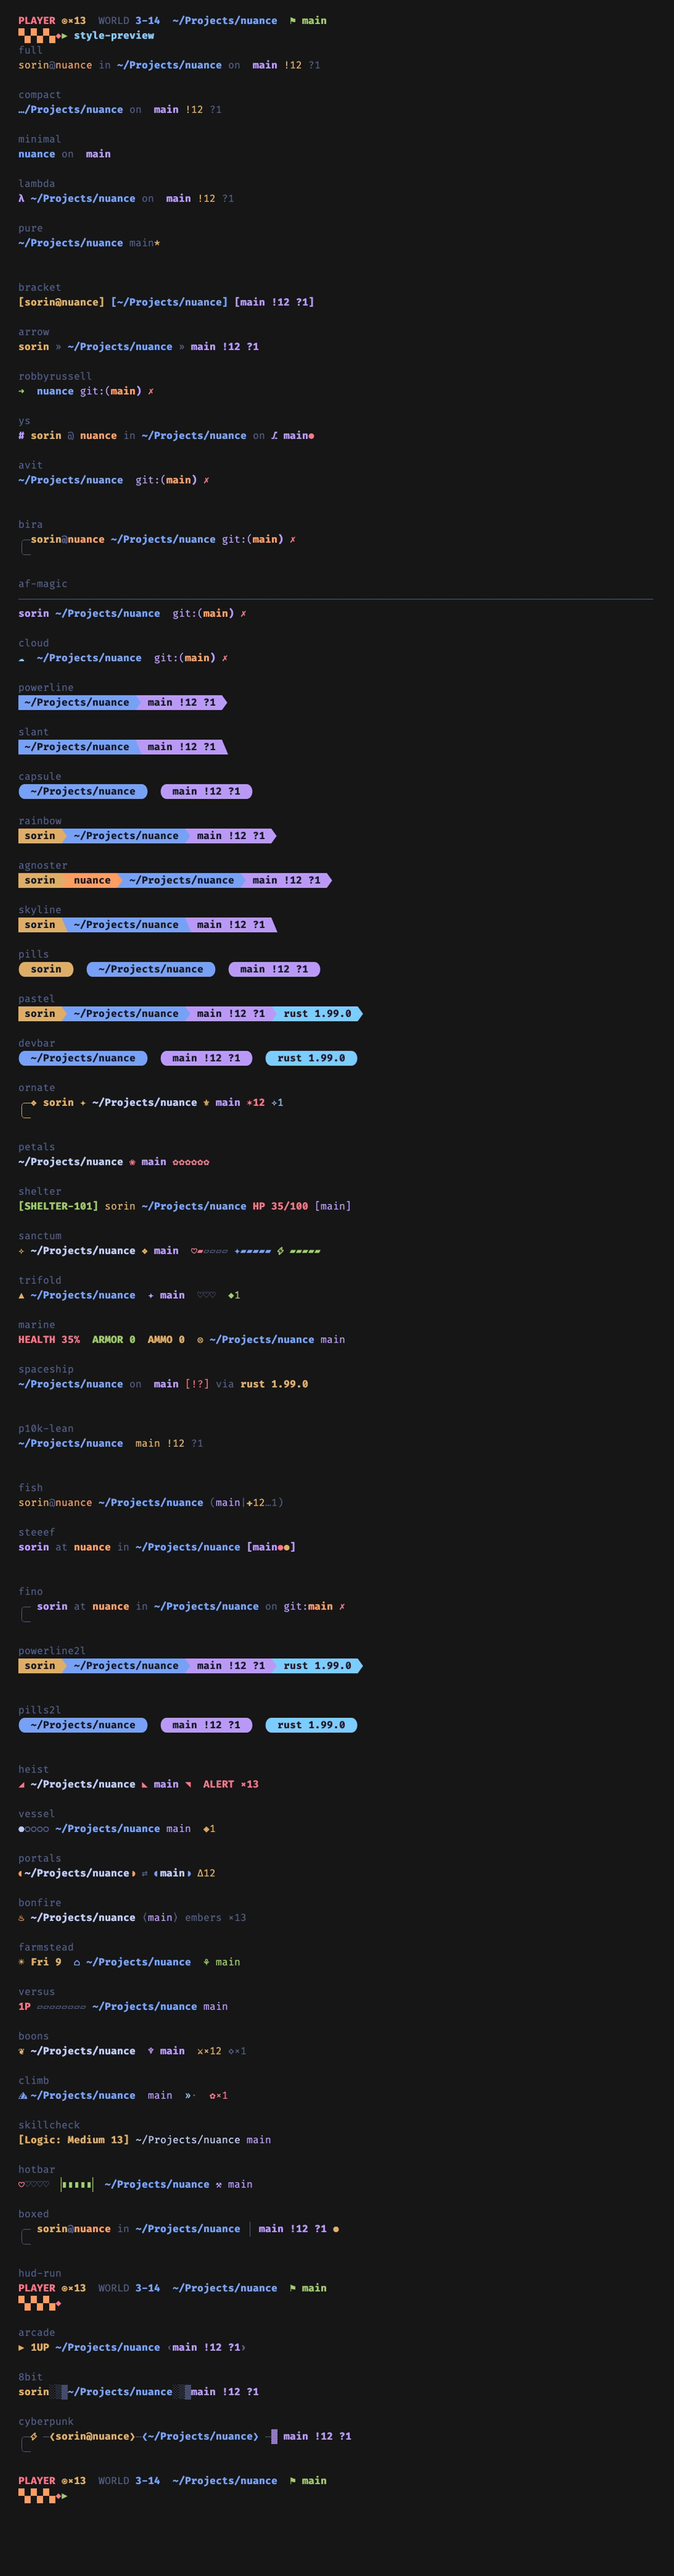
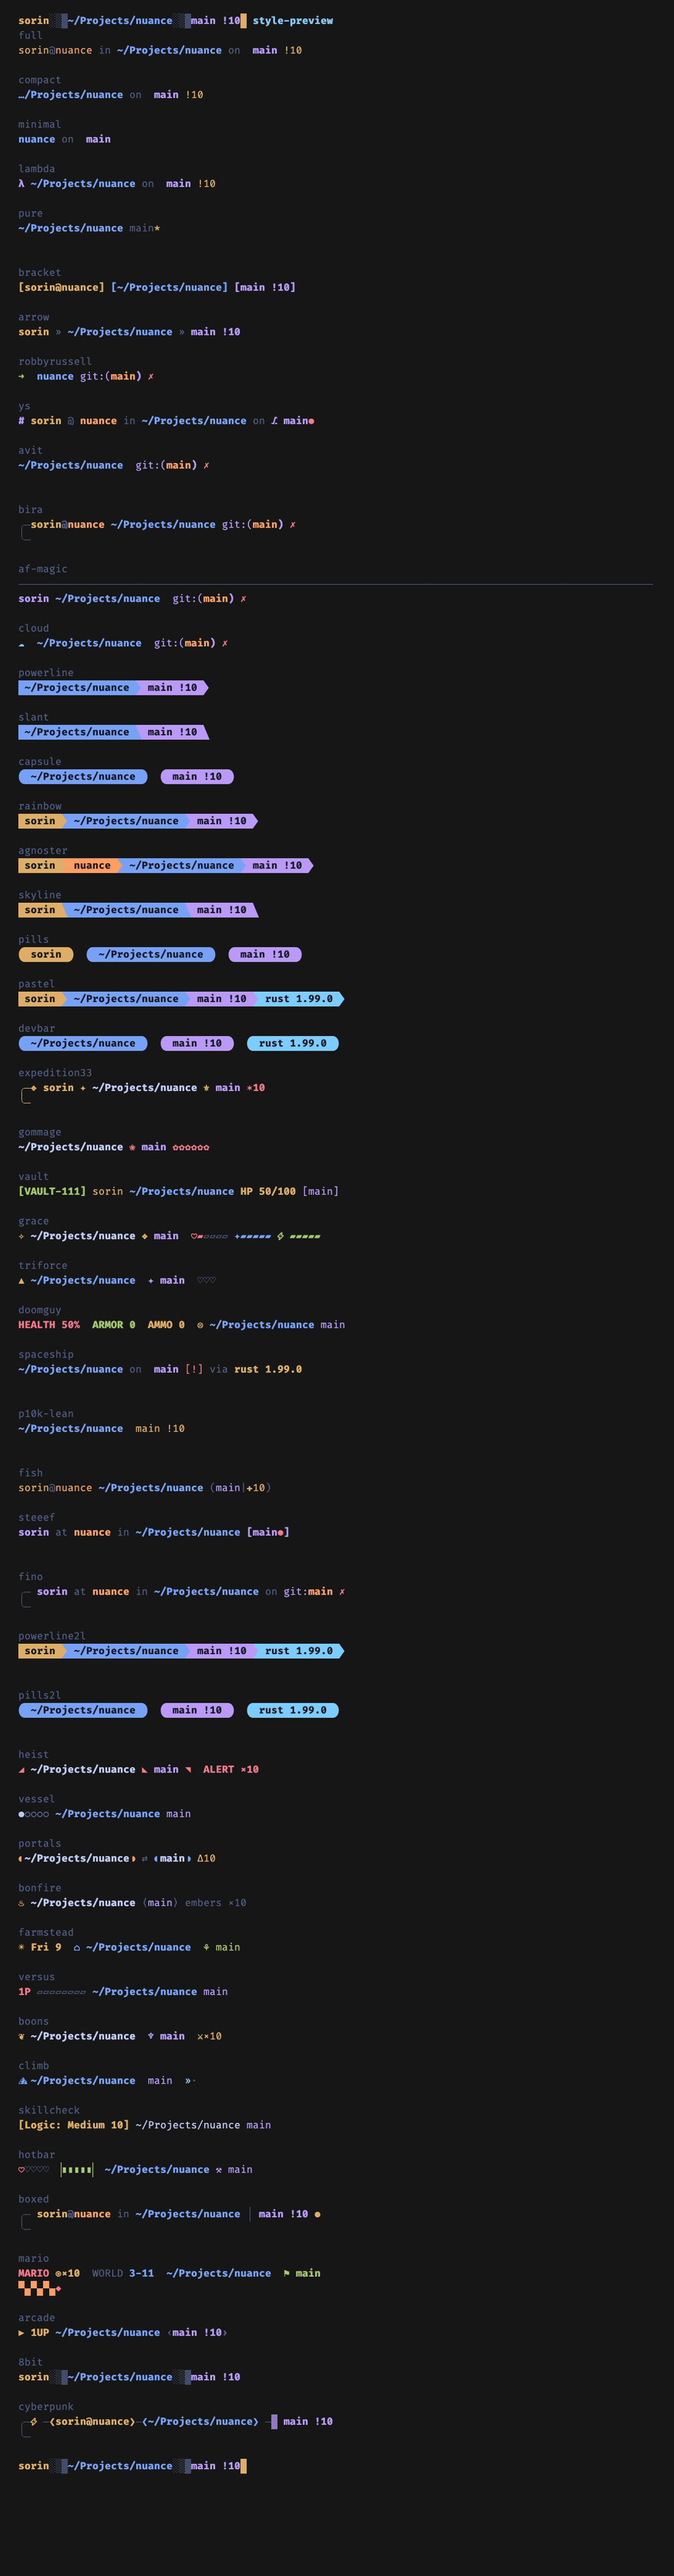
revert: keep the original game names (mario, hyrule, triforce, pip-boy, vault, doom, tarnished, grace, clair-obscur, expedition33, gommage)
- undo the generic renames and the legacy-name aliasing; original names, HUD strings (MARIO, [VAULT-111], YOU DIED) and descriptions restored
- the 10 new themes/styles/looks (phantom/heist, cavern-hush/vessel, test-chamber/portals, ember/bonfire, meadow/farmstead, dojo/versus, underworld/boons, summit/climb, rain-noir/skillcheck, blocky/hotbar) stay
- README: unofficial-fan-project trademark note instead of 'no game names'; generated GALLERY.md, tapes and images re-recorded with the original names

diff --git a/GALLERY.md b/GALLERY.md
@@ -35,28 +35,25 @@ Light themes on a light terminal background:
 `catppuccin-frappe` · `tokyo-night` · `nord` · `dracula` · `rose-pine` ·
 `rose-pine-moon` · `everforest` · `kanagawa` · `onedark` · `monokai` ·
 `ayu-dark` · `ayu-mirage` · `night-owl` · `github-dark` · `oxocarbon` ·
-`zenburn` · `solarized` · `coin-rush` · `cyberpunk` ·
+`zenburn` · `solarized` · `super-mario` · `cyberpunk` ·
 `tokyo-night-storm` · `tokyo-night-moon` · `gruvbox-material` ·
 `nightfox` · `kanagawa-dragon` · `flexoki` · `melange` · `nightfly` ·
 `material-palenight` · `tomorrow-night` · `snazzy` · `iceberg` ·
 `synthwave-84` · `cobalt2` · `modus-vivendi` · `horizon` · `sonokai` ·
-`belle-epoque` · `cave-course` · `phosphor` · `gilded-ruin` ·
-`greenfield` · `inferno` · `phantom` · `cavern-hush` · `test-chamber` ·
+`clair-obscur` · `mario-underground` · `pip-boy` · `tarnished` ·
+`hyrule` · `doom` · `phantom` · `cavern-hush` · `test-chamber` ·
 `ember` · `dojo` · `underworld` · `summit` · `rain-noir` · `blocky`
 
 **Light (15):**
 `catppuccin-latte` · `rose-pine-dawn` · `github-light` ·
 `solarized-light` · `tokyo-night-day` · `gruvbox-light` · `dawnfox` ·
 `kanagawa-lotus` · `flexoki-light` · `one-light` · `papercolor-light` ·
-`modus-operandi` · `belle-epoque-canvas` · `sunny-course` · `meadow`
+`modus-operandi` · `clair-obscur-canvas` · `mario-overworld` · `meadow`
 
 **Yours:** anything you `nuance import` (Ghostty, kitty, Alacritty, base16).
 
-The game-flavoured themes (`coin-rush`, `sunny-course`, `cave-course`,
-`greenfield`, `phosphor`, `inferno`, `gilded-ruin`, `belle-epoque`, `phantom`,
-`cavern-hush`, `test-chamber`, `ember`, `meadow`, `dojo`, `underworld`, `summit`,
-`rain-noir`, `blocky`, `cyberpunk`) are original, genre-inspired palettes with
-generic names — see the note on trademarks in the README.
+Game-flavoured themes and styles are unofficial, fan-made homages — see the
+note on trademarks in the README.
 
 ---
 
@@ -94,12 +91,12 @@ Cycling a few live:
 | `pills` | Nerd-Font rounded pills for user, path and git |
 | `pastel` | Nerd-Font powerline: user, path, git + toolchain (rust/node/python/go) |
 | `devbar` | Nerd-Font pills: exit code, ssh, path, git, toolchain, jobs |
-| `ornate` | Belle Époque two-liner — gold ornaments `❖ ✦ ⚜`, `✶` marks for changed files |
-| `petals` | a red `✿` petal falls for every changed file |
-| `shelter` | retro terminal — `[SHELTER-101] … HP 75/100 ☢` |
-| `sanctum` | HP / FP / stamina bars; FALLEN after a failed command |
-| `trifold` | `▲` crest, `♥♥♡` hearts, `◆` gems |
-| `marine` | FPS status bar — `HEALTH 75%  ARMOR 0  AMMO 3  ☺` |
+| `expedition33` | Clair Obscur: Expedition 33 — Belle Époque two-liner, gold ornaments, Gommage marks |
+| `gommage` | Clair Obscur — a red `✿` petal falls for every changed file (Gommage) |
+| `vault` | Fallout Pip-Boy — `[VAULT-111] … HP 75/100 ☢` |
+| `grace` | Elden Ring — HP / FP / stamina bars; YOU DIED on a failed command |
+| `triforce` | Zelda — `▲` Triforce, `♥♥♡` hearts, `◆` rupees |
+| `doomguy` | DOOM status bar — `HEALTH 75%  ARMOR 0  AMMO 3  ☺` |
 | `spaceship` | spaceship — path on  branch [flags] via toolchain, two-line |
 | `p10k-lean` | powerlevel10k lean — path + colored git state, two-line |
 | `fish` | fish informative — user@host ~/path (branch|✚2…1) |
@@ -118,13 +115,13 @@ Cycling a few live:
 | `skillcheck` | RPG skill checks — `[Perception: Success]`, `[Logic: Medium 3]`, `[Volition: Failure]` |
 | `hotbar` | sandbox HUD — `♥♥♥♥♡ ▕▮▮▯▯▯▏ ~/dir ⚒ main` |
 | `boxed` | two-line box-drawing with a ● clean/dirty marker |
-| `hud-run` | NES-style HUD: `PLAYER ◉×03  WORLD 3-4  ~/dir  ⚑ branch`, then a brick ground with the `◆` hero |
+| `mario` | two-line NES HUD: `MARIO ◉×03  WORLD 3-4  ~/dir  ⚑ branch ▲▼✖⬢★`, then a brick ground with the `◆` hero |
 | `arcade` | retro all-caps ▶ 1UP score line |
 | `8bit` | pixel ░▒▓ gradient separators |
 | `cyberpunk` | two-line neon box-drawing with ⚡ and ▶▶▶ |
 
-Game-inspired looks (platformer, retro terminal, soulslike, heist, farm sim,
-fighting game, roguelike, sandbox, cyberpunk …):
+Game-inspired looks (Clair Obscur: Expedition 33, Super Mario, Fallout, Elden
+Ring, Zelda, DOOM, heist, farm sim, fighting game, roguelike, sandbox, cyberpunk …):
 
 ![game looks](docs/games.gif)
 
@@ -166,8 +163,8 @@ A **look** is a curated theme + style pairing.
 | `bira` | nord | bira |
 | `af-magic` | dracula | af-magic |
 | `cloud` | catppuccin-frappe | cloud |
-| `coin-rush` | coin-rush | hud-run |
-| `arcade` | coin-rush | arcade |
+| `super-mario` | super-mario | mario |
+| `arcade` | super-mario | arcade |
 | `8bit` | gruvbox | 8bit |
 | `dracula-agnoster` | dracula | agnoster |
 | `tokyo-skyline` | tokyo-night | skyline |
@@ -184,15 +181,15 @@ A **look** is a curated theme + style pairing.
 | `melange-arrow` | melange | arrow |
 | `snazzy-rainbow` | snazzy | rainbow |
 | `modus-pure` | modus-vivendi | pure |
-| `belle-epoque` | belle-epoque | ornate |
-| `petals` | belle-epoque | petals |
-| `belle-epoque-canvas` | belle-epoque-canvas | ornate |
-| `sunny-run` | sunny-course | hud-run |
-| `cave-run` | cave-course | hud-run |
-| `shelter-101` | phosphor | shelter |
-| `gilded-ruin` | gilded-ruin | sanctum |
-| `greenfield` | greenfield | trifold |
-| `inferno` | inferno | marine |
+| `expedition-33` | clair-obscur | expedition33 |
+| `gommage` | clair-obscur | gommage |
+| `canvas-33` | clair-obscur-canvas | expedition33 |
+| `mario-world` | mario-overworld | mario |
+| `mario-underground` | mario-underground | mario |
+| `vault-111` | pip-boy | vault |
+| `tarnished` | tarnished | grace |
+| `hyrule` | hyrule | triforce |
+| `doom` | doom | doomguy |
 | `spaceship-nord` | nord | spaceship |
 | `p10k-tokyo` | tokyo-night | p10k-lean |
 | `fish-gruvbox` | gruvbox | fish |

diff --git a/README.md b/README.md
@@ -109,22 +109,20 @@ Running `nuance theme` / `nuance prompt-style` (or the short `theme` /
 - **Styles** are prompt *layouts* (minimal, powerline, two-line, oh-my-zsh
   classics like `robbyrussell`/`ys`/`steeef`/`fino`, framework clones
   `spaceship`/`p10k-lean`/`fish`, …), independent of the colors.
-- **Game-flavoured looks** turn git state into a game mechanic, with original
-  genre-inspired palettes and generic names:
-  `hud-run` (NES-style HUD + brick ground), `shelter` (retro terminal HP/☢),
-  `sanctum` (HP/FP/stamina bars, FALLEN on failure), `heist` (ALERT/ALL CLEAR),
-  `vessel` (mask health), `portals`, `bonfire`, `farmstead`, `versus`
-  (fighting-game health bar), `boons`, `climb`, `skillcheck`, `hotbar`,
-  `marine` (FPS status bar), `trifold`, `ornate`/`petals` (Belle Époque), and
-  `cyberpunk`. Try `look phantom`, `look ember`, `look cave-run`, …
+- **Game-inspired looks** turn git state into a game mechanic:
+  Clair Obscur: Expedition 33 (`expedition33`, `gommage`), Super Mario (`mario`
+  HUD), Fallout (`vault`), Elden Ring (`grace`), Zelda (`triforce`), DOOM
+  (`doomguy`), plus `heist`, `vessel`, `portals`, `bonfire`, `farmstead`,
+  `versus`, `boons`, `climb`, `skillcheck`, `hotbar` and `cyberpunk`. Try
+  `look expedition-33`, `look mario-underground`, `look phantom`, `look ember`, …
 
   ![game looks](docs/games.gif)
 
-  > **Trademarks.** nuance is not affiliated with or endorsed by any game
-  > publisher or studio. The game-flavoured themes and styles are original,
-  > genre-inspired designs (colors, Unicode glyphs, git-state mappings); they
-  > use no game names, logos, art or text. Earlier names (`mario`, `hyrule`,
-  > `doom`, …) were renamed — old names still resolve to the new ones.
+  > **Trademarks.** nuance is an unofficial fan project and is not affiliated
+  > with or endorsed by any game publisher or studio. Game names are
+  > trademarks of their respective owners. The themes and styles are original
+  > palettes and layouts (colors, Unicode glyphs, git-state mappings); no game
+  > art, logos, fonts or text assets are used.
 - A **look** pins a theme + style together and overrides Ghostty auto-follow.
 - The **git segment** shows branch, `⇡`ahead `⇣`behind `=`conflict `+`staged
   `!`modified `?`untracked `*`stash, `✔` clean — plus command duration (>2s)
